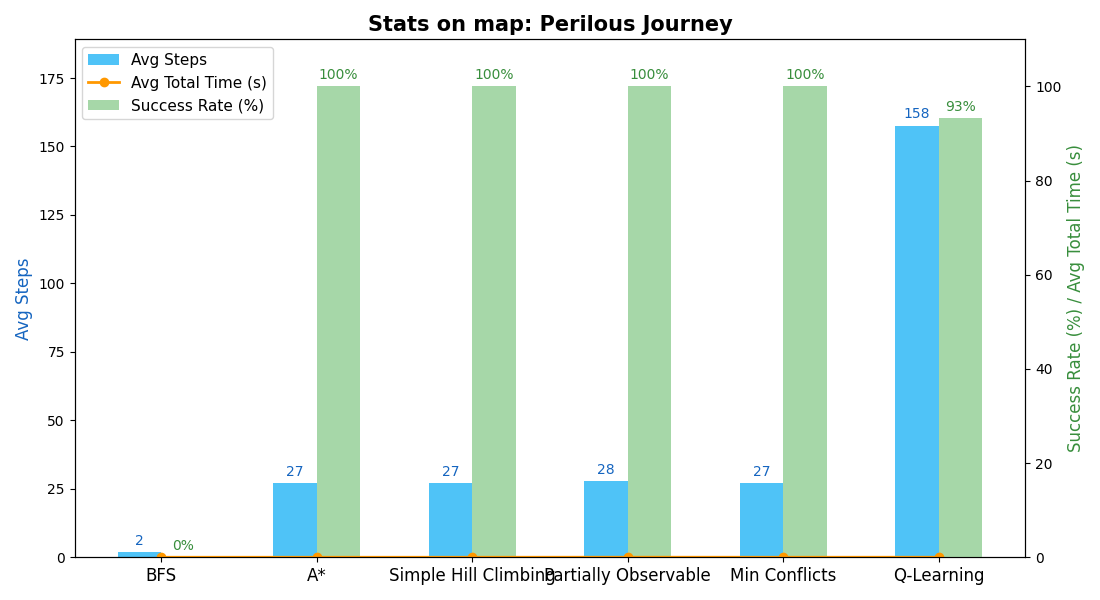
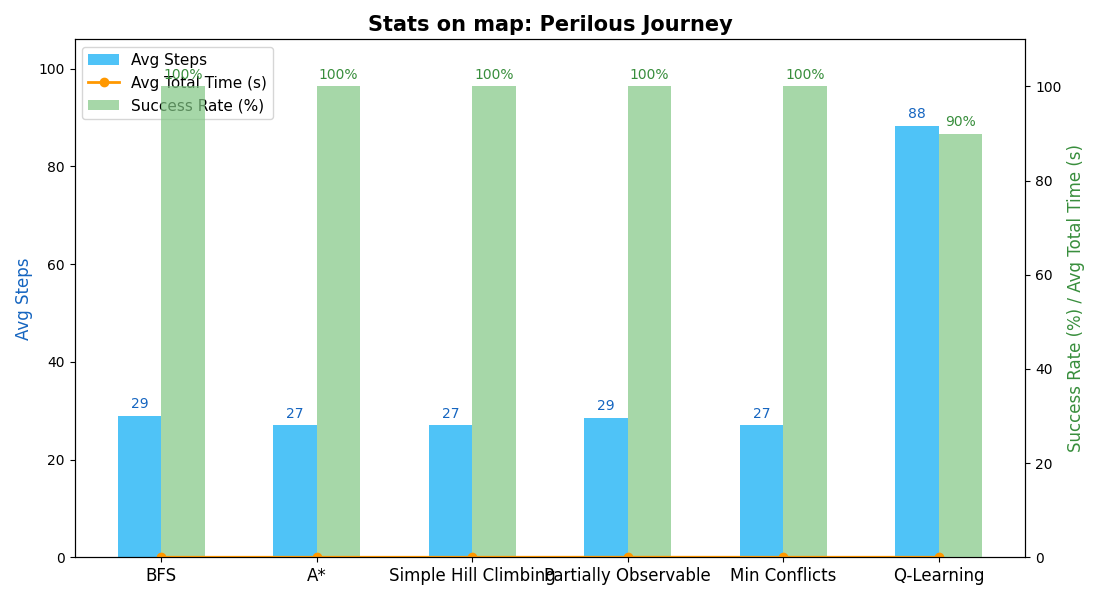
update benchmark

diff --git a/benchmark.py b/benchmark.py
@@ -70,6 +70,17 @@ def run_benchmark(algorithm, map_data, n_runs=3):
                 t_exit = time.time()
                 steps_finish = steps
                 break
+
+            if algorithm[0] == "BFS":
+            # BFS cần biến knowledge được khởi tạo đúng cách
+                if ai_knowledge is None:
+                    ai_knowledge = {
+                        "princess_rescued": False,
+                        "visited": set(),
+                        "path": [],
+                        "current_path_index": 0
+                    }
+
             # PO cần knowledge đặc biệt
             if algorithm[0] == "Partially Observable":
                 if ai_knowledge is None:
@@ -89,7 +100,7 @@ def run_benchmark(algorithm, map_data, n_runs=3):
                     }
             next_pos, ai_knowledge = algorithm[1](maze, player_pos, princess_pos, target_pos, visible, ai_knowledge)
             steps += 1
-            if next_pos == player_pos:
+            if next_pos == player_pos and algorithm[0] != "BFS":
                 break
             player_pos = next_pos
             if player_pos == princess_pos:
@@ -116,13 +127,28 @@ def calc_stats(results):
         if not algo_results:
             continue
         n = len(algo_results)
-        avg_steps = sum(r["steps"] for r in algo_results) / n
-        avg_steps_to_princess = sum(r["steps_to_princess"] for r in algo_results) / n
-        avg_steps_finish = sum(r["steps_finish"] for r in algo_results) / n
-        avg_time_to_princess = sum(r["time_to_princess"] for r in algo_results) / n
-        avg_time_to_exit = sum(r["time_to_exit"] for r in algo_results) / n
-        avg_total_time = sum(r["total_time"] for r in algo_results) / n
-        success_rate = sum(1 for r in algo_results if r["success"]) / n
+        
+        # Kiểm tra xem có kết quả thành công nào không
+        successful_results = [r for r in algo_results if r["success"]]
+        success_rate = len(successful_results) / n if n > 0 else 0
+        
+        # Tính toán chỉ dựa trên các kết quả thành công nếu có
+        if successful_results:
+            avg_steps = sum(r["steps"] for r in successful_results) / len(successful_results)
+            avg_steps_to_princess = sum(r["steps_to_princess"] for r in successful_results) / len(successful_results)
+            avg_steps_finish = sum(r["steps_finish"] for r in successful_results) / len(successful_results)
+            avg_time_to_princess = sum(r["time_to_princess"] for r in successful_results) / len(successful_results)
+            avg_time_to_exit = sum(r["time_to_exit"] for r in successful_results) / len(successful_results)
+            avg_total_time = sum(r["total_time"] for r in successful_results) / len(successful_results)
+        else:
+            # Nếu không có kết quả thành công, sử dụng tất cả kết quả
+            avg_steps = sum(r["steps"] for r in algo_results) / n
+            avg_steps_to_princess = sum(r["steps_to_princess"] for r in algo_results) / n
+            avg_steps_finish = sum(r["steps_finish"] for r in algo_results) / n
+            avg_time_to_princess = sum(r["time_to_princess"] for r in algo_results) / n
+            avg_time_to_exit = sum(r["time_to_exit"] for r in algo_results) / n
+            avg_total_time = sum(r["total_time"] for r in algo_results) / n
+        
         stats[name] = {
             "avg_steps": avg_steps,
             "avg_steps_to_princess": avg_steps_to_princess,

diff --git a/game.py b/game.py
@@ -498,8 +498,10 @@ def bfs_algorithm(maze, player_pos, princess_pos, target_pos, visible, knowledge
     queue = deque([player_pos])
     visited = {player_pos}
     parent = {player_pos: None}
-    
-    while queue:
+
+    found_goal = False
+
+    while queue and not found_goal:
         current = queue.popleft()
         
         if current == goal:

diff --git a/README.md b/README.md
@@ -80,7 +80,7 @@ python game.py
 ## Cấu trúc dự án
 ```
 Rescue-Princess-AI/
-│
+├── benchmark.py         # Đo hiệu suất của các thuật toán
 ├── game.py              # File chính của trò chơi
 ├── images/              # Thư mục chứa hình ảnh game
 ├── sounds/              # Thư mục chứa âm thanh
